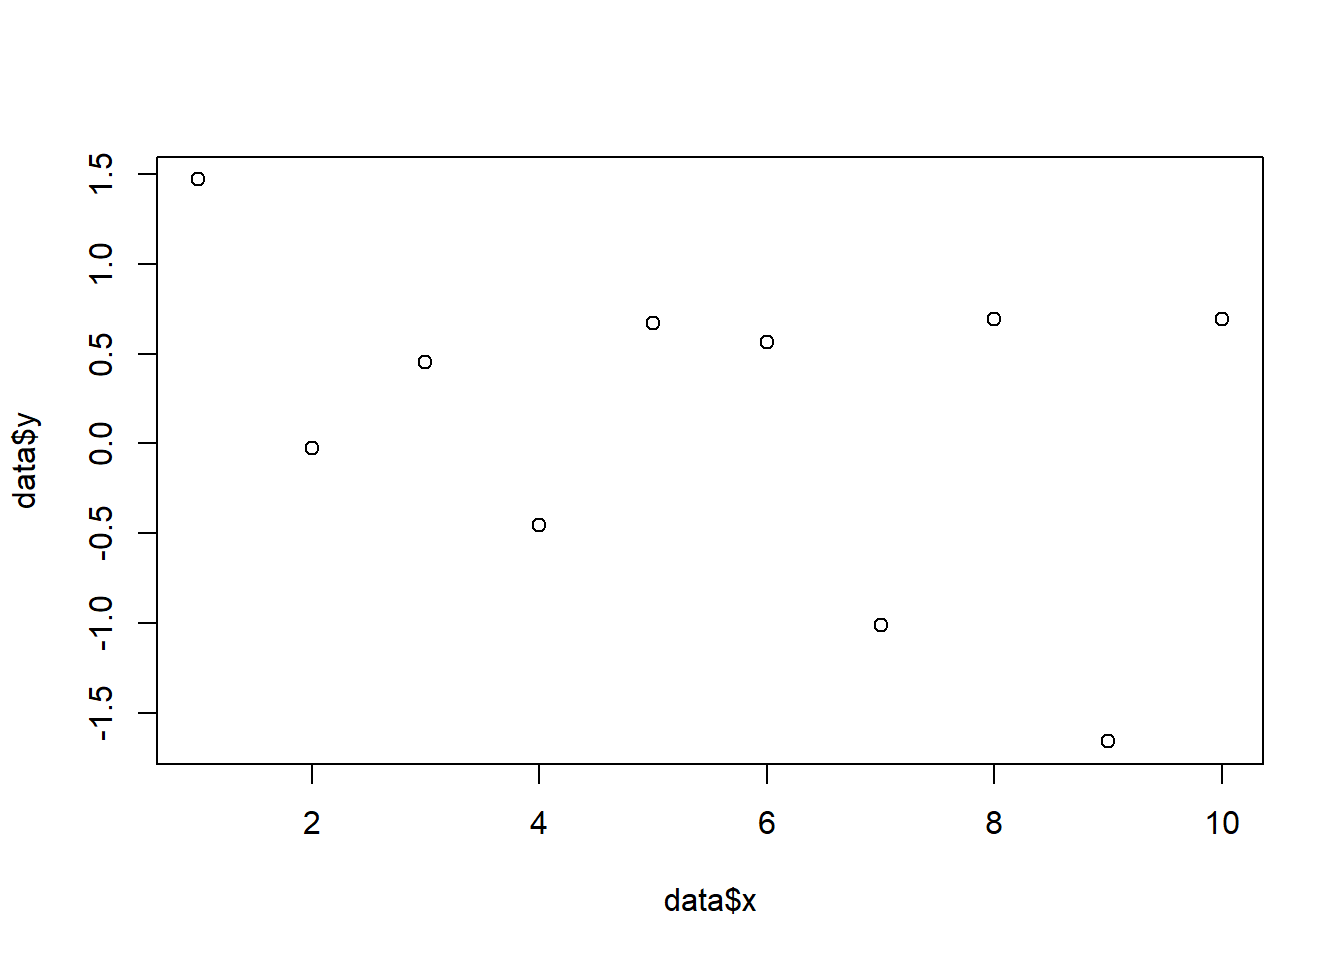
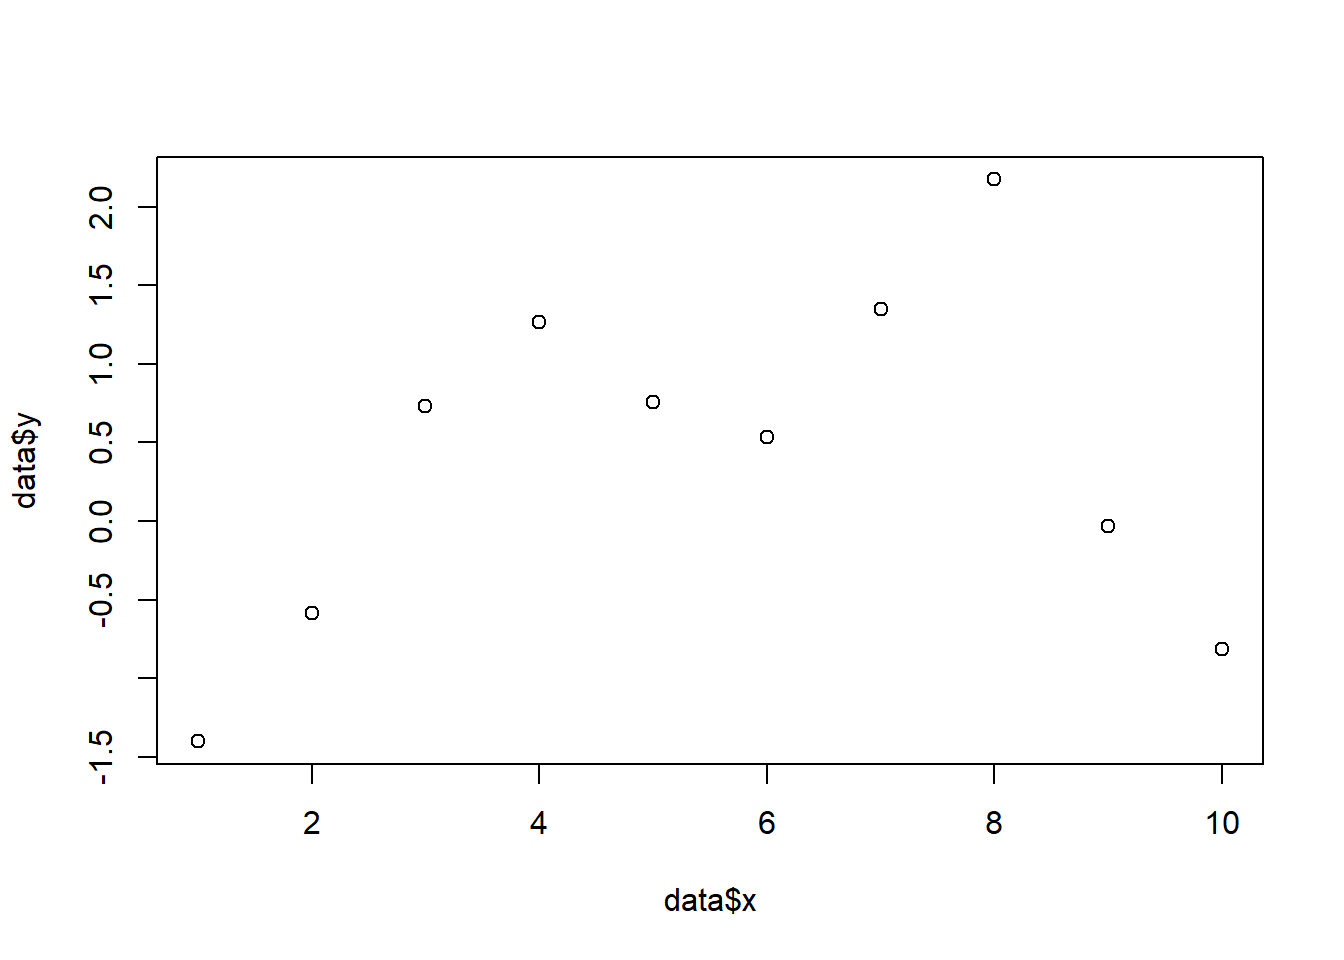
A

diff --git a/docs/projects/final-report.html b/docs/projects/final-report.html
@@ -6,7 +6,7 @@
 
 <meta name="viewport" content="width=device-width, initial-scale=1.0, user-scalable=yes">
 
-<meta name="author" content="Your Name">
+<meta name="author" content="Sherif Hamidu">
 <meta name="dcterms.date" content="2026-06-04">
 
 <title>Final Report: [Your Project Title] – My Research Profile</title>
@@ -190,7 +190,7 @@ pre > code.sourceCode > span > a:first-child::before { text-decoration: underlin
     <div>
     <div class="quarto-title-meta-heading">Author</div>
     <div class="quarto-title-meta-contents">
-             <p>Your Name </p>
+             <p>Sherif Hamidu </p>
           </div>
   </div>
     
